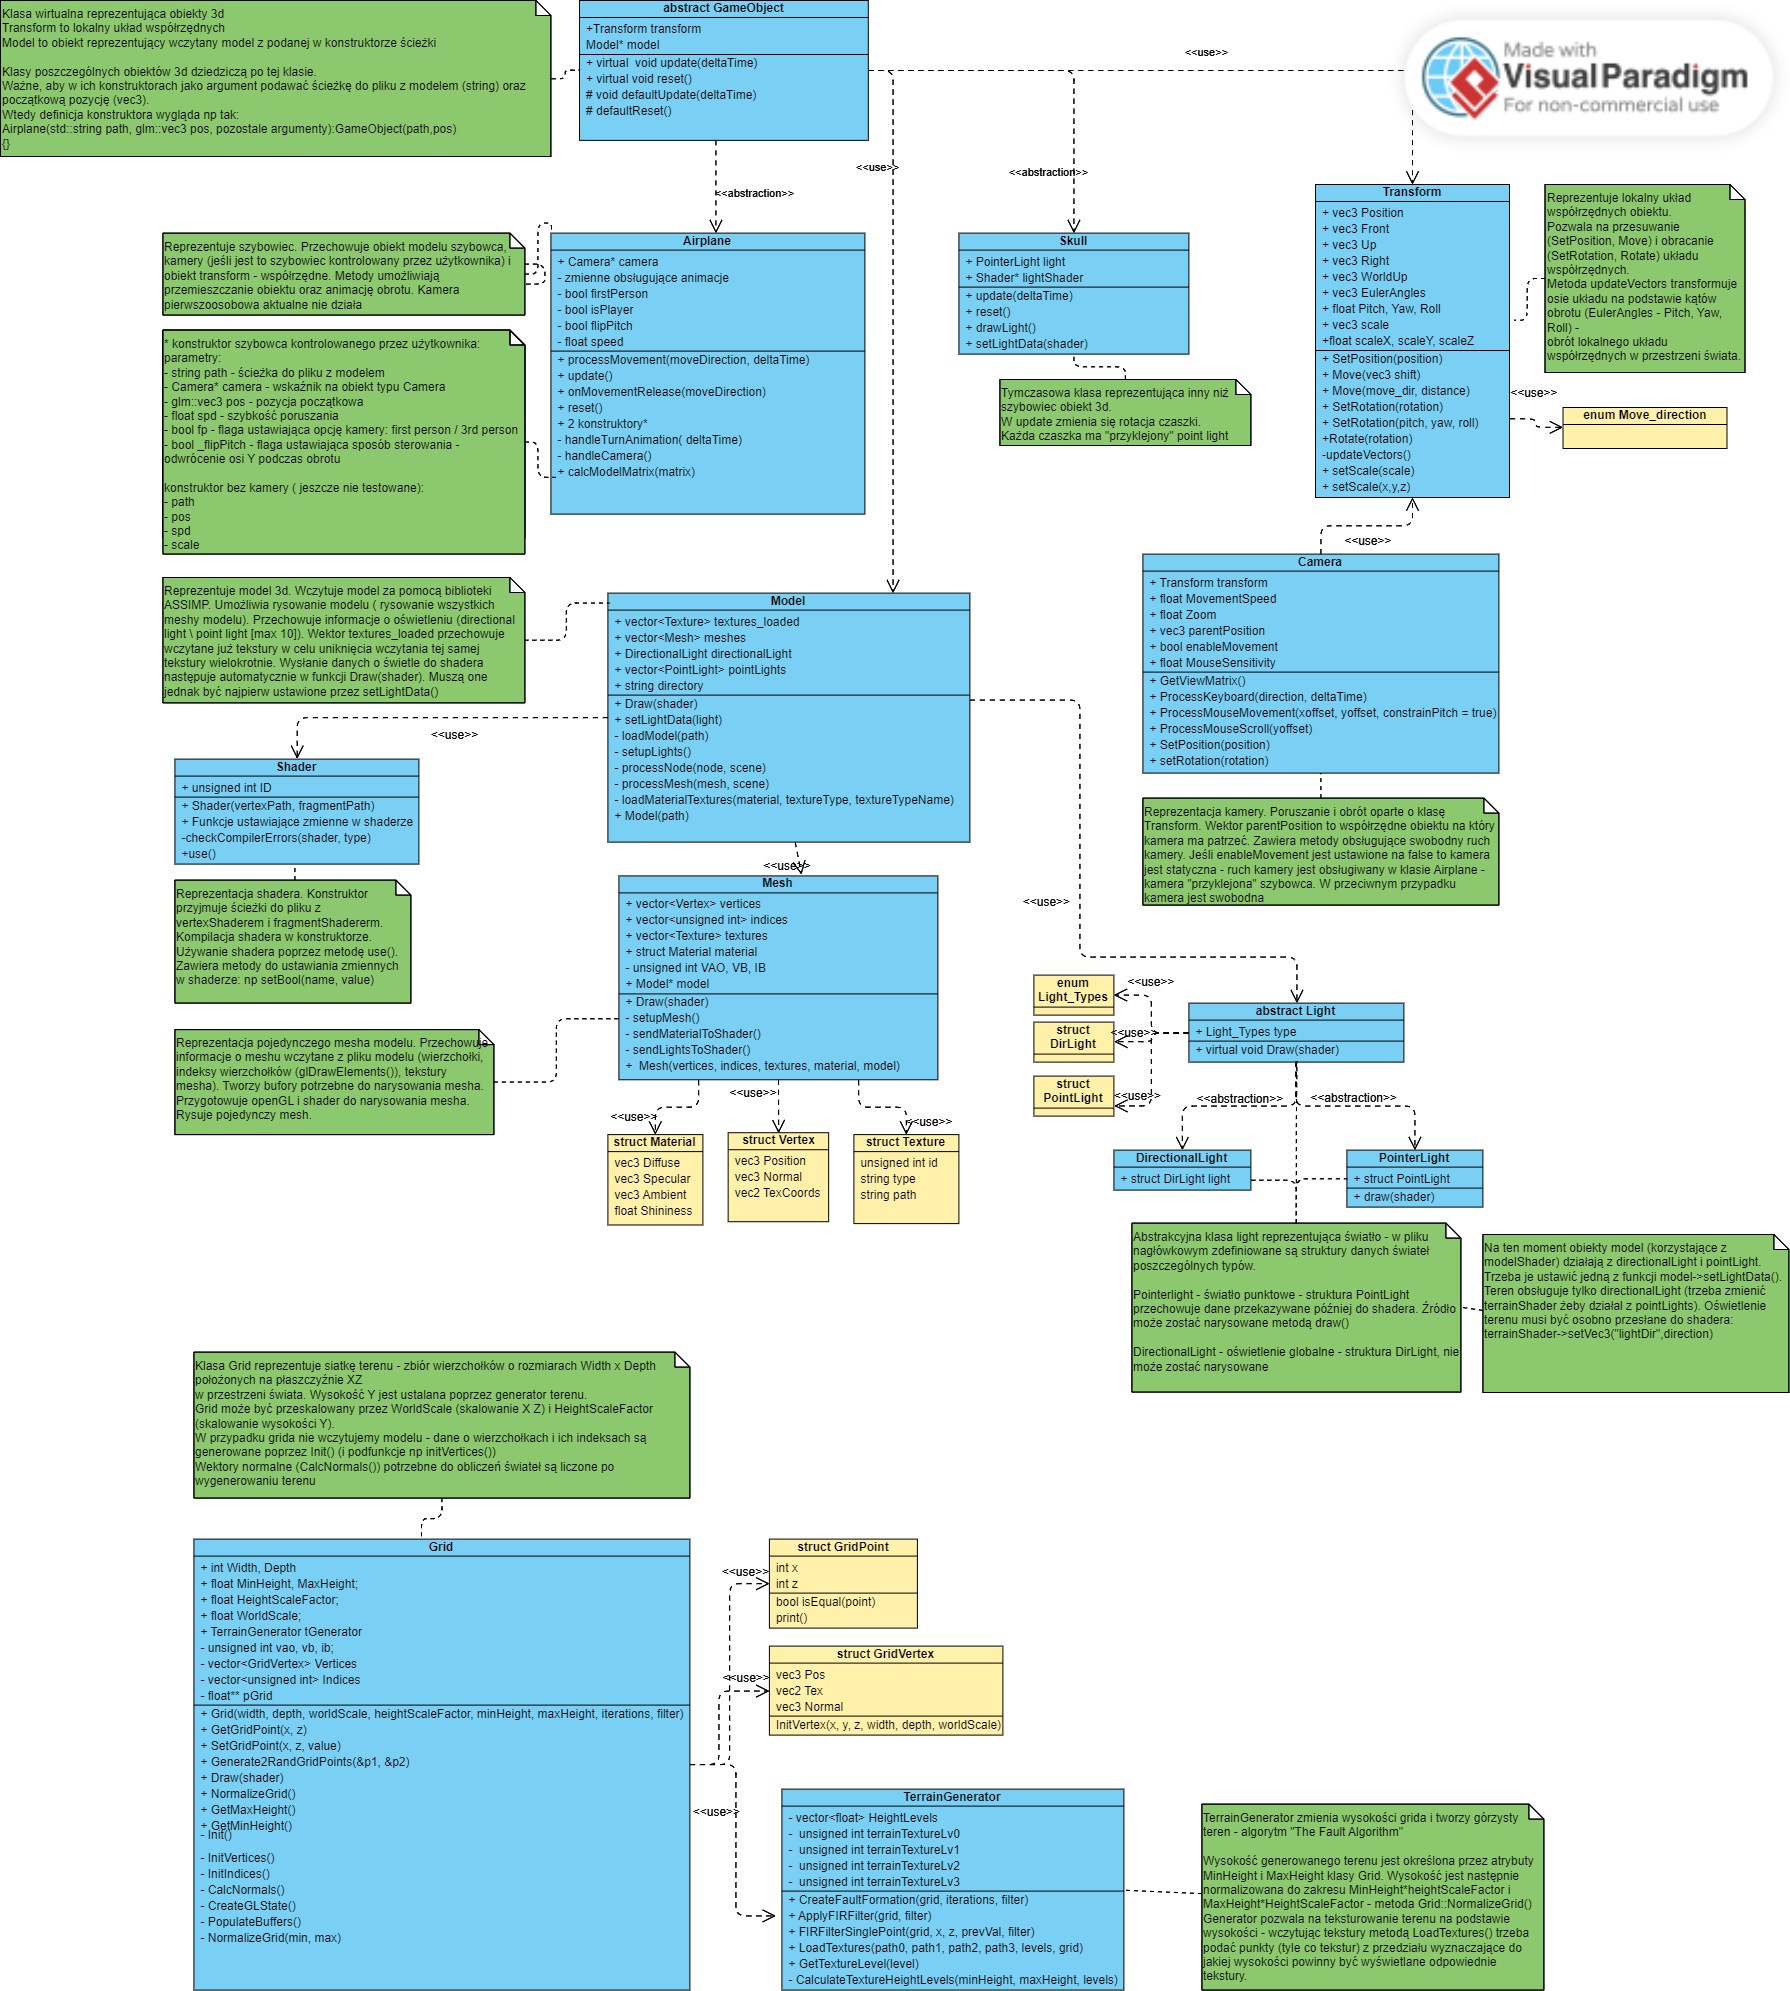
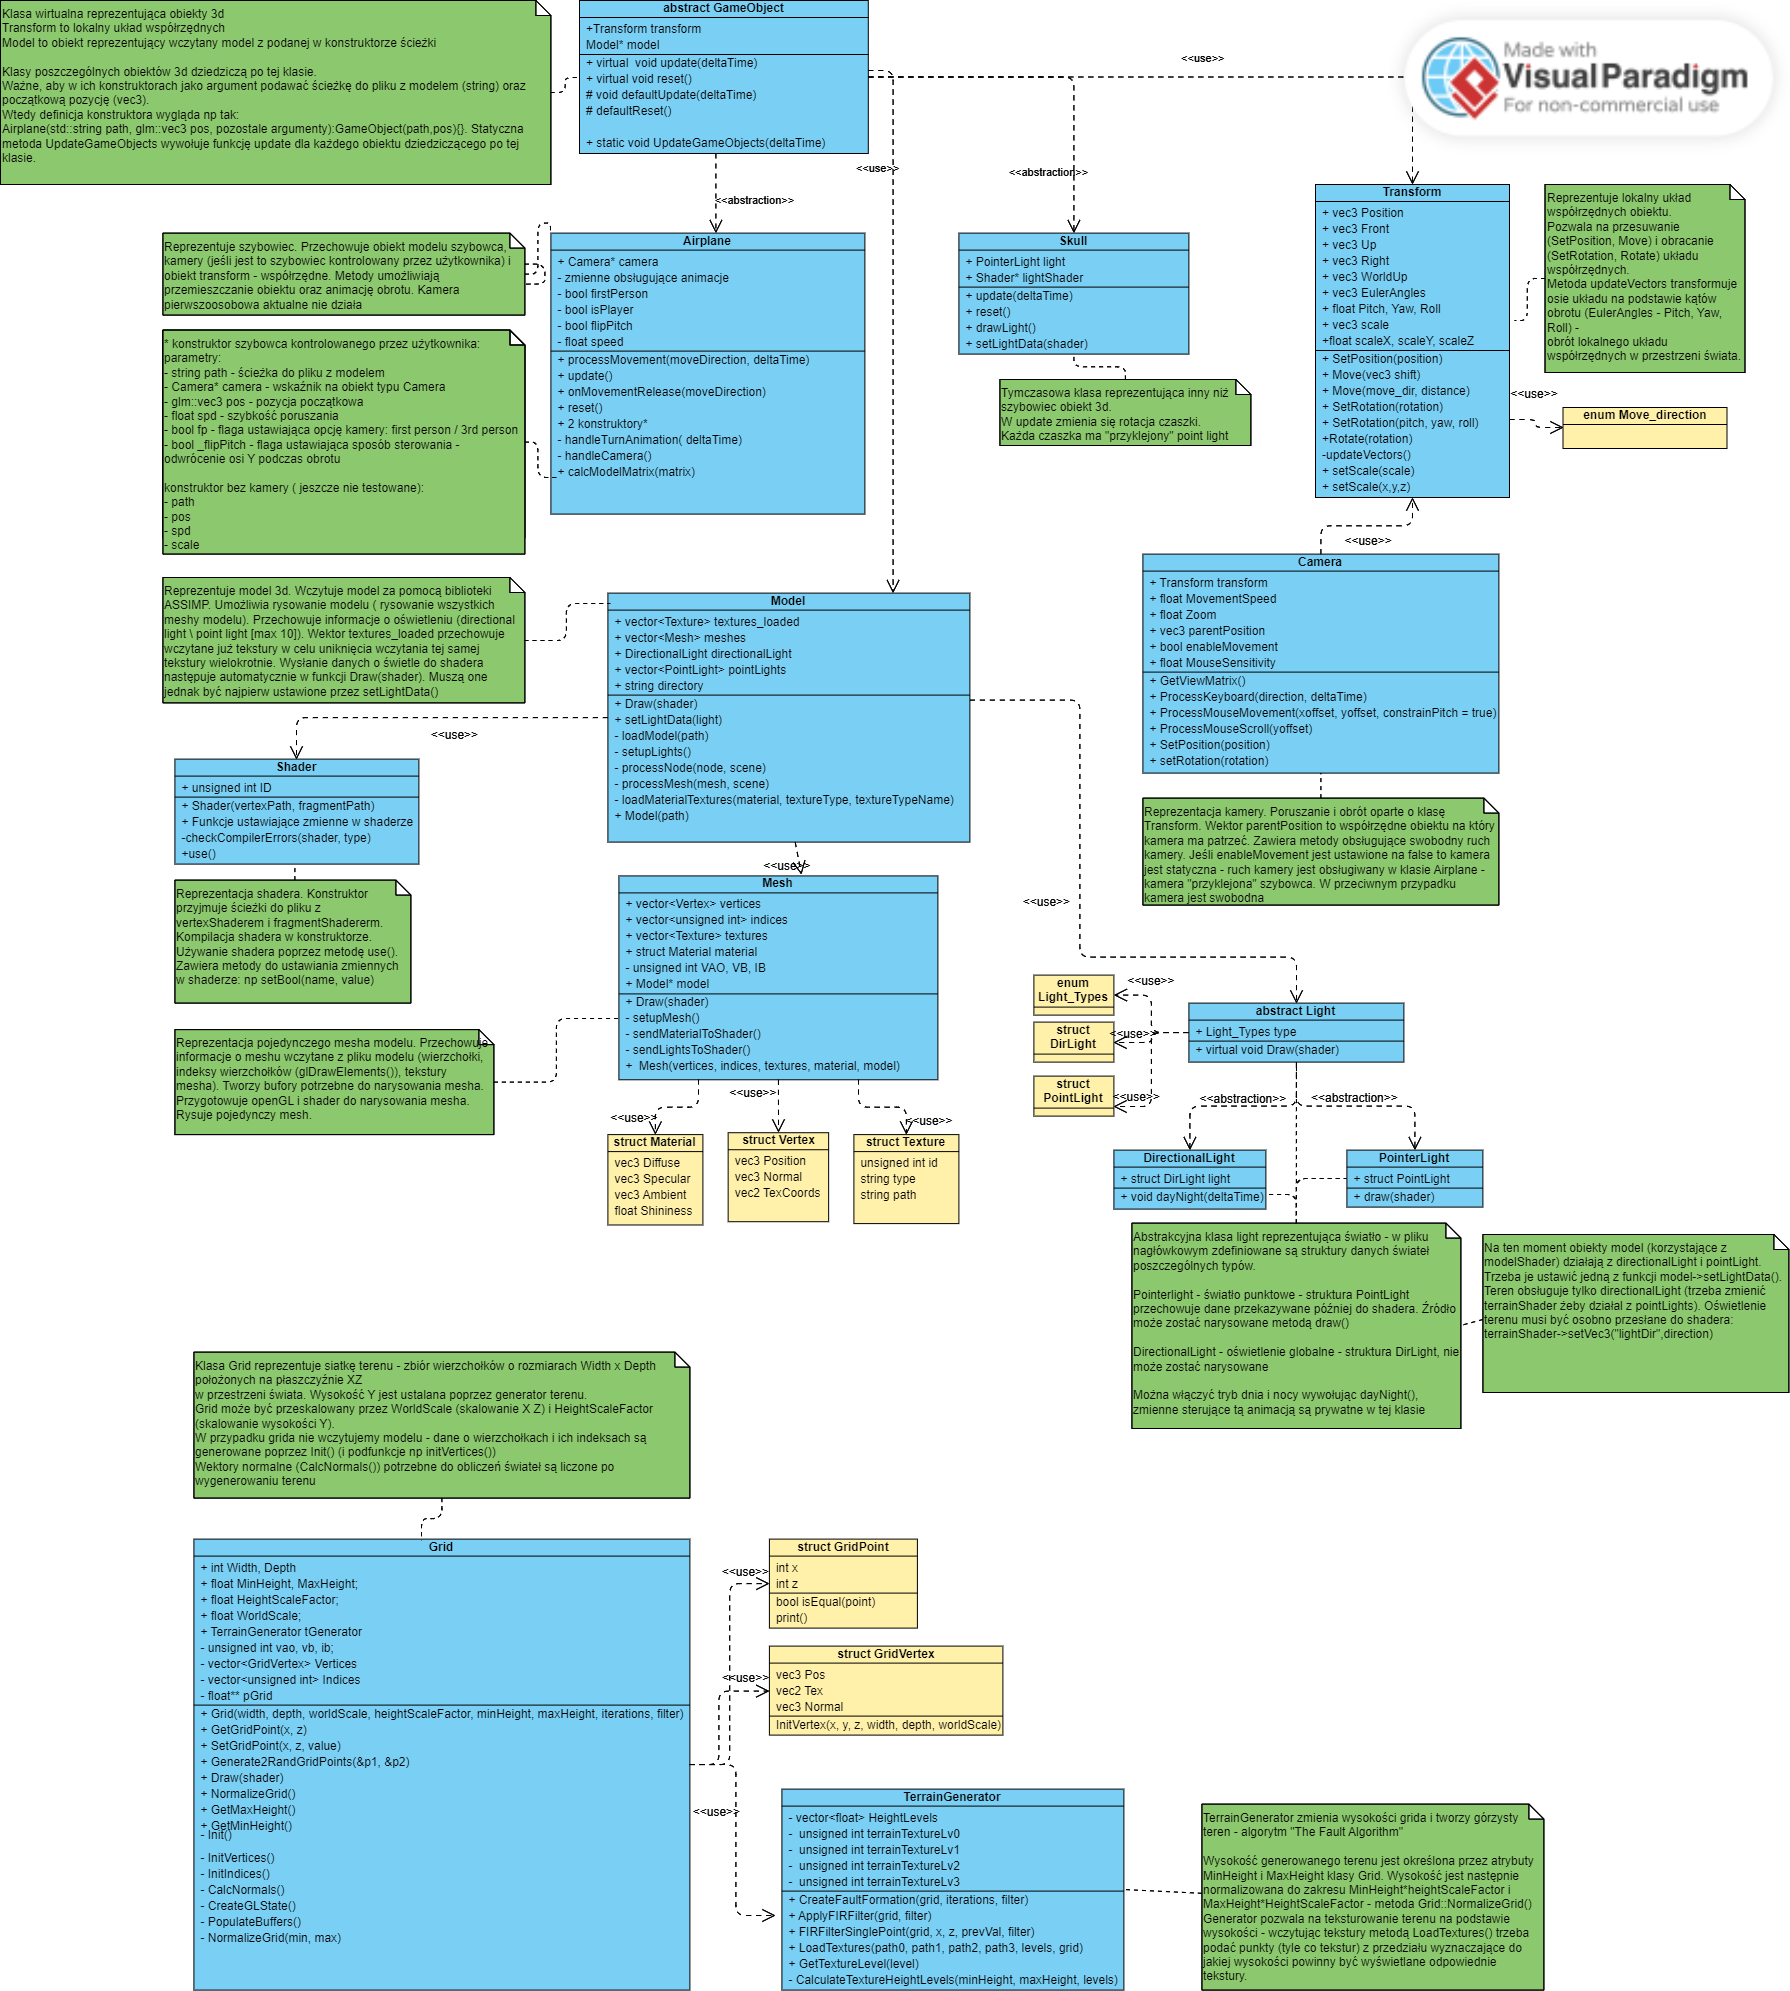
day night cycle

diff --git a/DirectionalLight.h b/DirectionalLight.h
@@ -1,6 +1,7 @@
 #ifndef DIRECTIONAL_LIGHT
 #define DIRECTIONAL_LIGHT
 #include "Light.h"
+#include <cmath>
 
 class DirectionalLight : public Light
 {
@@ -25,11 +26,16 @@ public:
     {
         type = DIRECTIONAL;
 
-        light.direction = direction;
-        light.color = color;
+        //light.direction = direction;
+        //light.color = color;
         light.ambient = ambient;
         light.diffuse = diffuse;
         light.specular = specular;
+
+        light.direction = up;
+        light.color = fullSun;
+
+
     }
 
     // dir light cant be represented as a point in world space so dont draw it
@@ -37,6 +43,140 @@ public:
     {
         ;
     }
+
+
+    void dayNight(float deltaTime)
+    {
+
+        glm::vec3 newColor;
+        glm::vec3 newDirection;
+
+        progressCounter += deltaTime * sunSpeed;
+
+
+        if (progressCounter > 1.0f)
+        {
+            progressCounter = 1.0f;
+        }
+
+
+        switch (state)
+        {
+        case 0: // fullsun -> dawn
+        {
+            newColor.x = std::lerp(fullSun.x, dawn.x, progressCounter);
+            newColor.y = std::lerp(fullSun.y, dawn.y, progressCounter);
+            newColor.z = std::lerp(fullSun.z, dawn.z, progressCounter);
+            light.color = newColor;
+
+            newDirection.x = std::lerp(up.x, horizon.x, progressCounter);
+            newDirection.y = std::lerp(up.y, horizon.y, progressCounter);
+            newDirection.z = std::lerp(up.z, horizon.z, progressCounter);
+            light.direction = newDirection;
+
+            break;
+        }
+        case 1: //  dawn -> darkness
+        {
+            newColor.x = std::lerp(dawn.x, darkness.x, progressCounter);
+            newColor.y = std::lerp(dawn.y, darkness.y, progressCounter);
+            newColor.z = std::lerp(dawn.z, darkness.z, progressCounter);
+            light.color = newColor;
+
+            light.direction = horizon;
+
+            break;
+        }
+        case 2: //  darkness -> moon
+        {
+            newColor.x = std::lerp(darkness.x, moon.x, progressCounter);
+            newColor.y = std::lerp(darkness.y, moon.y, progressCounter);
+            newColor.z = std::lerp(darkness.z, moon.z, progressCounter);
+            light.color = newColor;
+
+            newDirection.x = std::lerp(horizon.x, up.x, progressCounter);
+            newDirection.y = std::lerp(horizon.y, up.y, progressCounter);
+            newDirection.z = std::lerp(horizon.z, up.z, progressCounter);
+            light.direction = newDirection;
+
+            break;
+        }
+        case 3: //  moon -> darkness
+        {
+            newColor.x = std::lerp(moon.x, darkness.x, progressCounter);
+            newColor.y = std::lerp(moon.y, darkness.y, progressCounter);
+            newColor.z = std::lerp(moon.z, darkness.z, progressCounter);
+            light.color = newColor;
+
+            newDirection.x = std::lerp(up.x, horizon.x, progressCounter);
+            newDirection.y = std::lerp(up.y, horizon.y, progressCounter);
+            newDirection.z = std::lerp(up.z, horizon.z, progressCounter);
+            light.direction = newDirection;
+
+            break;
+        }
+        case 4: //  darkness -> dawn
+        {
+            newColor.x = std::lerp(darkness.x, dawn.x, progressCounter);
+            newColor.y = std::lerp(darkness.y, dawn.y, progressCounter);
+            newColor.z = std::lerp(darkness.z, dawn.z, progressCounter);
+            light.color = newColor;
+
+            light.direction = horizon;
+
+            break;
+        }
+        case 5: //  dawn -> fullSun
+        {
+            newColor.x = std::lerp(dawn.x, fullSun.x, progressCounter);
+            newColor.y = std::lerp(dawn.y, fullSun.y, progressCounter);
+            newColor.z = std::lerp(dawn.z, fullSun.z, progressCounter);
+            light.color = newColor;
+
+            newDirection.x = std::lerp(horizon.x, up.x, progressCounter);
+            newDirection.y = std::lerp(horizon.y, up.y, progressCounter);
+            newDirection.z = std::lerp(horizon.z, up.z, progressCounter);
+            light.direction = newDirection;
+
+            break;
+        }
+        default:
+        {
+            break;
+        }
+        }
+
+        if (progressCounter >= 1.0f)
+        {
+            progressCounter = 0.0f;
+            state++;
+        }
+
+        if (state > 5)
+        {
+            state = 0;
+        }
+
+    }
+
+private:
+    // day night settings
+    // states order: 1. fullSun, 2. dawm, 3. darkness, 4. moon, 5. darkness, 6. dawn 7. repeat
+    int state = 0;
+    float progressCounter = 0;
+    float sunSpeed = 0.3f;
+    
+    // colors
+    glm::vec3 sun = glm::vec3(1.0f, 1.0f, 220.0f / 255.0f);
+    glm::vec3 fullSun  = glm::vec3(255.0f/255.0f, 255.0f/255.0f, 255.0f/255.0f);
+    glm::vec3 dawn = glm::vec3(255.0f / 255.0f, 209.0f / 255.0f, 180.0f / 255.0f);
+    glm::vec3 darkness = glm::vec3(30.0f/255.0f, 30.0f / 255.0f, 30.0f / 255.0f);
+    glm::vec3 moon = glm::vec3(65.0f / 255.0f, 77.0f / 255.0f, 112.0f / 255.0f);
+
+    // ray directions
+    glm::vec3 up = glm::vec3(0.0f, -1.0f, 0.0f);
+    glm::vec3 horizon = glm::vec3(-1.0f, -.5f, 1.0f);
+
 
 
 };

diff --git a/main_file.cpp b/main_file.cpp
@@ -35,9 +35,10 @@ const bool FIRST_PERSON = false;	// FIRST PERSON AKTUALNIE NIE DZIALA
 const bool FREE_CAM = false;
 const bool FLIP_X_AXIS_ROTATION_MOVEMENT = false;
 const float FP_CAM_Y_OFFSET = -0.0f;
-const float AIRPLANE_SCALE = 0.001f;
+const float AIRPLANE_SCALE = 0.001f; 
 const float FOV = 45.0f;
 const bool ENABLE_ANISOTROPY = true;
+const bool DAY_NIGHT_CYCLE = true;
 
 
 // camera
@@ -362,6 +363,7 @@ void drawTerrain(glm::mat4 projection, glm::mat4 view, Shader* shader)
 	shader->setMat4("view", view);
 	shader->setMat4("projection", projection);
 	shader->setVec3("lightDir", dirLight.light.direction);
+	shader->setVec3("lightColor", dirLight.light.color);
 
 	grid->Draw(*shader);
 }
@@ -434,9 +436,28 @@ void drawScene(GLFWwindow* window)
 	glfwSwapBuffers(window);
 }
 
+
 void update(float deltaTime)
 {
 	GameObject::UpdateGameObjects(deltaTime);
+	
+	if (DAY_NIGHT_CYCLE)
+	{
+		// day night cycle
+		dirLight.dayNight(deltaTime);
+
+		//update lights
+			// light for skulls
+		for (int i = 0; i < numOfSkulls; i++)
+		{
+			light = &dirLight;
+			skulls[i]->model->setLightData(light);
+		}
+		light = &dirLight;
+		airPlane->model->setLightData(light);
+	}
+
+
 }
 
 

diff --git a/GameObject.h b/GameObject.h
@@ -24,7 +24,8 @@ class GameObject
 public:
 	Transform transform;
 	Model* model;
-
+	
+	GameObject() { ; };
 	GameObject(std::string path, glm::vec3 pos);
 	~GameObject();
 
